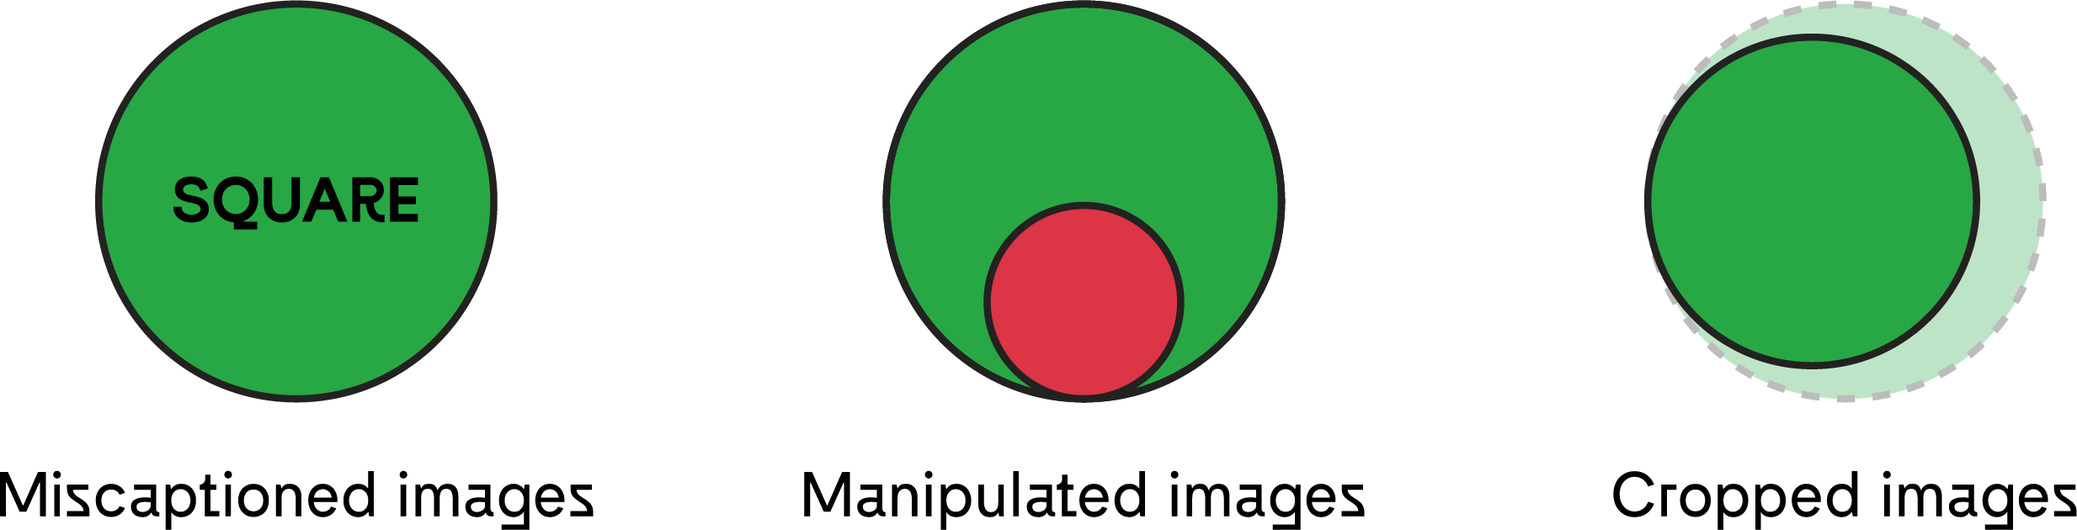
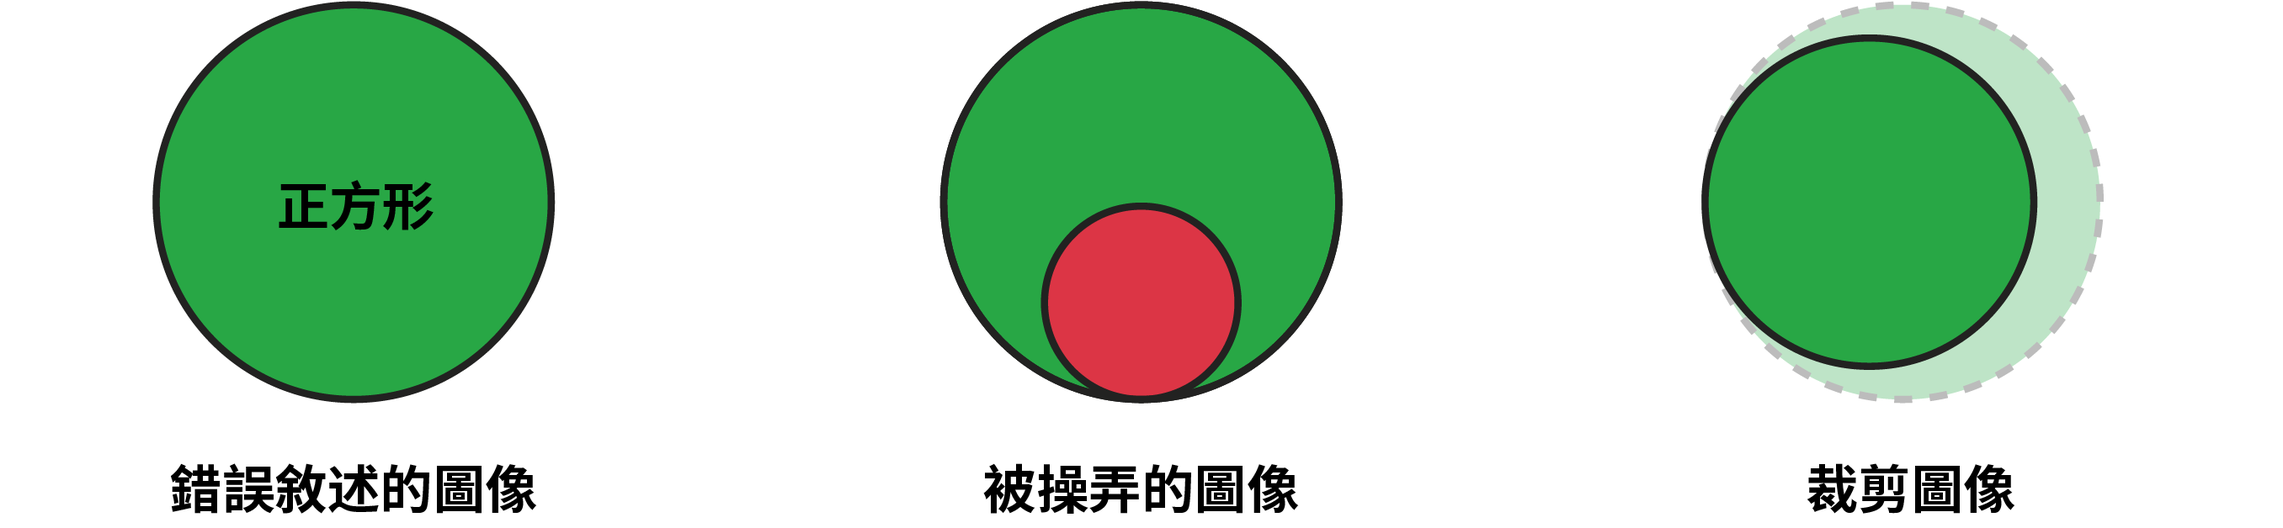
About completo

diff --git a/about.html b/about.html
@@ -2679,140 +2679,93 @@
           <div class="card-header">關於</div>
           <div class="card-body">
             <p class="card-text names"><span style="font-family: var(--font-bold)">計畫團隊</span></br></br>嘉貝麗.戴菈.珮帕 + 安德莉雅.愛蓮娜.費布雷斯 + 凱特麗娜. 吉歐 + 法蘭切絲卡.格蘭佐托 + 寶拉.隆笛 + 愛蓮娜.史黛芬尼 </br>@Density Design, Final Synthesis Design Studio, 2020年1月</p>
-            <h1 id="startingpoint" class="card-title">STARTING POINT</h1>
-            <h2 class="subtitle">How does visual mis- and disinformation propagate?</h2>
+            <h1 id="startingpoint" class="card-title">起點</h1>
+            <h2 class="subtitle">錯誤訊息和假消息是如何傳播的？</h2>
             <p class="card-text">
-              During the 21st century, the number of software for editing images has rapidly increased.
-              Time, cost and skill are not an obstacle anymore: <span style="text-decoration: underline">everyone can easily learn
-                how to fabricate convincing visual digital objects.</span>
-              Moreover, nowadays, the visual aspect is closely linked to information topic: in order to catch readers' attention, any newspaper article
-              or Social Network post is usually accompanied by an image.
-              For these reasons, perhaps even unknowingly, <span style="text-decoration: underline">visual mis- and disinformation propagates across online news sources and Social Networks</span>
-              with growing frequency and sophistication.
-              Thus, it is not unusual to find manipulated visual content online, used to deceive viewers, exploit beliefs or influence
-              individuals’ decisions or actions. One specific example in which a decontextualized image has caused substantial damage on a social level
-              is Trump’s Hurricane Dorian Map Controversy episode:</p></br></br>
-            <p class="cit">After drawing criticism for inaccurately warning over the weekend that Alabama could get hit by Hurricane Dorian — even after government meteorologists disputed that was the case —
-              President Donald Trump on Wednesday held up a map that appeared to have a line drawn on it in black making it seem as if he had been right all along. [...] The map he displayed had one addition
-              not on the one disseminated by the National Hurricane Center: what appeared to be a drawn-on semicircle appended to the "cone of uncertainty" showing the hurricane's potential projected impact —
-              extending the cone into Alabama. [...] It is against federal law to knowingly issue or publish any counterfeit weather forecasts that falsely represent an official forecast issued by government
-              entities like the National Weather Service and National Hurricane Center.</br>
-
-              <img class="img img-fluid dorian" src="./assets/dorian.jpg" /></br>
-              <span class="dida">President Donald Trump, White House in Washington, Sept. 4, 2019.
-                @Jonathan Ernst/Reuters.</span></br></br>
-              <a href="https://abcnews.go.com/Politics/map-flap-trump-displays-altered-weather-map-showing/story?id=65384094">Read the entire article here.</a>
+              D在 21 世紀，有許多圖像編輯軟體。時間、成本和技能不再是障礙：任何人都可以輕鬆學習如何製作具有相當說服力的圖像。
+              </br></br>
+              更重要的是，如今圖像與訊息息息相關。報紙文章和社群媒體都是透過圖像來吸引讀者的注意。
+              </br></br>
+              因此通過網路新聞和社群網絡，錯誤訊息和假消息被更頻繁、更具有說服力地傳播，更常見的是操弄人們的宗教信仰、決議或實際行動，往往嚴重破壞整體社會，其中一個極具爭議的例子是川普的颶風多里安地圖集：
+            </p></br></br>
+            <p class="cit">在週末，因不準確的預測，誤發出阿拉巴馬州可能受到多里安颶風襲擊的錯誤警告而受到批評 - 即使在政府氣象學家對這種情況提出異議之後 - 唐納川普總統週三舉起了一張地圖，上面似乎畫了一條黑色的線。好像他一直都是對的。 [...] 他展示的地圖增加了一個不屬於國家颶風中心發的地圖：似乎是一個繪製的半圓，附加在「不確定性錐體」上，顯示了颶風的潛在預計影響——延長錐體進入阿拉巴馬州。 [...] 刻意發布錯誤的天氣預報，誤導人民以為是國家氣象局和國家颶風中心等政府機構發布的官方預報，這是違反聯邦法律的。</br>
+              <img class="img img-fluid dorian" src="./assets/dorian.jpg"/></br>
+              <span class="dida">唐納川普總統，華盛頓白宮，2019 年 9 月 4 日。</br>@Jonathan Ernst/路透社。</span></br></br>
+              <a href="https://abcnews.go.com/Politics/map-flap-trump-displays-altered-weather-map-showing/story?id=65384094">在此處閱讀整篇文章。</a>
             </p></br>
             <p class="card-text">
-              <span style="text-decoration: underline">Manipulated images can distort and influence users’ opinion and memory</span>. Quite often the distribution of fake
-              images will far surpass the distribution of any correction or attempt to expose the forgery and the general public
-              remains vulnerable to visual deception.
+              被刻意操弄的圖像會扭曲和影響人們的觀點和記憶。即使後續有更正啟事，但大多數情況下，錯誤訊息會傳播的比更正啟事更廣泛，人們往往無法看到實情。
             </p>
 
-            <h2 class="subtitlemiddle">Shades of visual hoaxes</h2>
-            <p class="card-text">Despite the different intention with which manipulated content is produced, <span style="text-decoration: underline">visual hoaxes are all harmful in the same way</span>. Online users are often convinced that the
-              phenomenon only concerns photoshopped images.
-              However, there are much more subtle shades of manipulation.</br>The term <span style="text-decoration: underline">fake</span> does not describe the complexity of the different types of <span
-                style="font-family: var(--font-bold)">misinformation</span>
-              — which is the inadvertent sharing of false information — and <span style="font-family: var(--font-bold)">disinformation</span> —
-              which is the deliberate creation and sharing of information known to be false. To understand the current visual information ecosystem, we need to break down <span style="text-decoration: underline">three types of mis- and
-                disinformation:</span></br></br>
+            <h2 class="subtitlemiddle">惡作劇的陰影</h2>
+            <p class="card-text">因不同意圖所創造的惡作劇，都具有殺傷力。 雖然許多人認為 Photoshop 這個軟體是主要問題，但仍有其他更微妙，更有效的操弄方法。</br></br>
+              在不知不覺中分享未經證實的訊息時，就會發生錯誤訊息。透過刻意製作和分享錯誤訊息來操弄人們。上述兩種複雜的情形下，要了解實際正在發生的事情，我們需要解構三種類型的錯誤訊息和假消息：</br></br>
               <img class="img img-fluid" src="./assets/IconeManipulation.png" />
-              <span style="font-family: var(--font-bold)">
-                Miscaptioned images</span> — Real but misleading images with explanatory texts that falsely describe their context, origin or meaning.</br></br>
-              <span style="font-family: var(--font-bold)">Manipulated images</span> — The primary elements are true, but some details have been added or deleted in order to change the meaning of the image.</br></br>
-              <span style="font-family: var(--font-bold)">Cropped images</span> — Images that have been cropped to change their original meaning and their true context.</p>
+              <span style="font-family: var(--font-bold)">錯誤敘述的圖像</span>——真實但具有誤導性的圖像，包含錯誤的敘述，錯置說明的上下文、來源或含義。</br></br>
+              <span style="font-family: var(--font-bold)">被操弄的圖像</span>——主要元素是真實的，但為了改變圖像的含義而添加或刪除了一些細節。</br></br>
+              <span style="font-family: var(--font-bold)">裁剪圖像</span>——透過裁剪圖像來改變其原始含義和真實上下文。</p>
 
-            <h1 id="maintopics" class="card-title">MAIN TOPICS</h1>
-            <h2 class="subtitle">How do we perceive online visual information?</h2>
+            <h1 id="maintopics" class="card-title">主要議題</h1>
+            <h2 class="subtitle">我們如何察覺網路上的訊息？</h2>
             <p class="card-text"><img class="img img-fluid topicsmall" src="./assets/fonteverificata.gif" /></br>
-              <span style="font-family: var(--font-bold)">Online information credibility</span> is an aspect of information that depends on the user's perception. In order to save time and effort,
-              online we process facts relying on social clues: reputation, endorsements, consistency, expectancy violation, share from like-minded others and number of likes are
-              all features that affect the way we judge information.</br>
+              我們的觀點，直接影響我們對網路訊息的看法。為了節省時間和精力，我們會根據社會線索來評斷事實，例如聲望、期望、誰分享了貼文，擁有多少按讚數等因素都會影響我們判斷訊息的方式。</br>
               <img class="img img-fluid topicbig" src="./assets/intermediares.gif" /></br>
-              <span style="font-family: var(--font-bold)">Source trustworthiness</span> and <span style="font-family: var(--font-bold)">where the information is published</span> are important factors that can influence online information credibility:
-              users tend to transfer the reputation of the source
-              to the content itself and perceive news organizations as having more expertise than singular individuals sharing information on Social Network.
-              In addition, we tend to perceive information as credible if others think so: visual information from more credible <span style="text-decoration: underline">intermediaries</span> will be perceived as
-              more credible than those from less credible intermediaries.</br>
+              誰發佈了信息，在哪裡發佈，都是影響內容可信度的關鍵因素。例如，人們認為新聞機構的可信度遠高於社群媒體上分享內容的個人。另外，我們也會因為其他人相信訊息，而傾向於相信訊息。</br>
               <img class="img img-fluid topicsmall" src="./assets/fomo.gif" /></br>
-              <span style="font-family: var(--font-bold)">Fear of Missing Out</span> and <span style="font-family: var(--font-bold)">Bandwagon effect</span> are led by a compulsive concern about loss of opportunity for social interaction and can
-              trigger the thought:
-              “If other people like this, then I should too”. For these reasons, <span style="text-decoration: underline">time</span> becomes one of the most important factors that influences online information credibility: it pushes the user to
-              judge and share information while not really paying attention to what the content is about. </br>
+              “如果其他人喜歡這個，那我也應該喜歡這個”，這種害怕錯過和“潮流效應”會影響人們的判斷力。這可能導致人們在未仔細讀取訊息內容或確認其可信度時，就輕易分享訊息。</br>
               <img class="img img-fluid topic" src="./assets/labirinto.gif" /></br>
-              <span style="font-family: var(--font-bold)">Digital Media Literacy,</span> described as familiarity and expertise with various online platforms, enables users to correctly identify digital features such as source and intermediary in
-              order to make credibility assessments.
-              In the context of visual information, <span style="text-decoration: underline">experiences and proficiency related to photography or digital imaging</span> are also useful. </br>
+              “數位媒體素養”意味著能夠辨別網路訊息的特徵，例如誰創造了它以及它的共享者是誰，並使用這些知識來決定訊息是否可信。了解如何編輯數位圖像和影片也是數位媒體素養的其中一個面向。</br>
               <img class="img img-fluid topicsmall" src="./assets/bias.gif" /></br>
-              <span style="font-family: var(--font-bold)">Issue attitude</span> and <span style="font-family: var(--font-bold)">confirmation bias</span> have a significant effect: people are more likely to accept a visual content as real if it aligns
-              with their prior beliefs,
-              especially if it is related to politics or current events subjects.
+              我們面對不同問題的態度也很重要，尤其是在政治或時事的背景下，如果訊息證實了他們原本的信念，人們更有可能相信訊息是真實的。
             </p>
 
-            <h1 id="goal" class="card-title">WHAT'S THE GOAL</h1>
-            <h2 class="subtitle">How to mitigate the potential harm of visual hoaxes</h2>
+            <h1 id="goal" class="card-title">目標是什麼</h1>
+            <h2 class="subtitle">如何減少惡作劇的潛在危害</h2>
             <p class="card-text">
-              The main purpose of <span style="font-family: var(--font-var)">doublecheck</span> quiz is to show online users <span style="text-decoration: underline">how difficult</span> it is to recognize whether an image is reliable or not.
-              In addition, this project shows users that every image encountered must be analysed both in its content and in its context. By not paying such attention online, the user could become himself a vehicle for the spread of disinformation
-              and misinformation.
-              <span style="text-decoration: underline">We all play a crucial part in the visual information ecosystem:</span> whenever we passively accept unverified information — for example by sharing a post, image or video without confirming them
-              — we are all potentially adding noise and confusion
-              to this overcrowded and polluted reality. We must <span style="text-decoration: underline">take responsibility for independently checking what we see online.</span>
-              Lastly, <span style="font-family: var(--font-var)">doublecheck</span> suggests that to mitigate the potential harm caused by disinformation online, the best strategy is <span style="text-decoration: underline">investing in educational
-                efforts to increase users’ digital media literacy.</span></br>
-              Gamification — the process of using game-style mechanics to encourage people’s participation and engagement in non-game contexts — is the method used here to convey this message:
-              by taking the quiz, users can both test their skills and actively understand the complexity of visual misinformation topic.
+              <span style="font-family: var(--font-var)">Doublecheck</span><span style="font-family: var(--font-varNorm)"> Project</span>的主要目的是向人們展示識別圖像可信度的難度。此外，還說明了為何需要根據內容和上下文來查看每張圖像。在網路上如果人們不注意，他們可能會在不知不覺中傳播假消息和錯誤訊息。</br></br>
+              我們都在訊息息系統中發揮著至關重要的作用，每當我們被動地接受訊息時——例如通過分享貼文、圖像或影片而不檢查或質疑它——我們正冒著傳遞不真實或誤導性內容的風險。</br></br>
+              我們每個人都有責任檢查在網路上看到的內容。<span style="font-family: var(--font-var)">Doublecheck</span><span style="font-family: var(--font-varNorm)"> Project</span>建議，減少錯誤訊息和消息造成傷害的最佳方式是透過教育來提升數位媒體素養。</br></br>
+              遊戲化——透過遊戲來鼓勵人們參與。通過參加測驗，人們可以測試他們的能力並積極了解主題的複雜性。
             </p>
 
-            <h1 id="starterpack" class="card-title">STARTER PACK</h1>
-            <h2 class="subtitle">Useful tools to deal with visual hoaxes</h2>
-            <h2 class="subtitlemiddle">Data</h2>
+            <h1 id="starterpack" class="card-title">入門錦囊</h1>
+            <h2 class="subtitle">處理惡作劇的工具</h2>
+            <h2 class="subtitlemiddle">數據</h2>
             <p class="card-text">
-              Online visual mis- and disinformation is a phenomenon that has developed in parallel with the birth and diffusion of Social Networks worldwide. Nowadays, both young people and adults often
-              <span style="text-decoration: underline">use these channels as their only source of news</span>.
-              Mainly for this reason, dis- and misinformation spreads readily in this settings.
-              During the first phase of the design process, we explored which platforms are the most used in which region of the World.
-              If you want to learn more about the most influential Social Networks around the World, visit our site:</br></br>
-              <a href="https://densitydesign.github.io/teaching-dd15/course-results/es01/group01/">Social Networks by Cultural Areas</a>
+              如今，網路上的錯誤訊息和假消息隨著社群媒體的發展，許多年輕人和成年人都將社群媒體作為他們唯一的新聞來源，助長假消息和錯誤訊息的傳播。在設計遊戲的第一階段，我們探索了世界各地使用最多的網路社群平台。如果您想了解有關全球最具影響力的網路社群平台，請瀏覽我們的網站：</br></br>
+              <a href="https://densitydesign.github.io/teaching-dd15/course-results/es01/group01/">按文化區域性劃分的社群網絡</a>
               <img class="img img-fluid infografica" src="./assets/Infografica_Spilli.jpg" /></br></br>
-              Confirmation bias is more pronounced for <span style="text-decoration: underline">visual information related to politics and current events</span>.
-              In fact, when it comes to high media resonance events which are supposed to be familiar to the public,
-              visual media disinformation is even more widespread and varied.
-              To get a better understanding of this phenomenon, check out our previews project:</br></br>
-              <a href="https://densitydesign.github.io/teaching-dd15/course-results/es02/group01/">I see it, therefore I believe it</a>
+              關於政治或時事的訊息更有可能引發偏見——因為它支持我們的觀點，使我們更容易相信某件事。當談到許多人都知道的大型全球事件時，假消息變得越來越普遍。更深入了解，請瀏覽我們的預覽訊息：</br></br>
+              <a href="https://densitydesign.github.io/teaching-dd15/course-results/es02/group01/">眼見為憑</a>
               <img class="img img-fluid infografica" src="./assets/Cerchi_Totale.jpg" /></br>
-              <span class="dida">Which and how many times are the fake images related to relevant events of the last 6 years debunked on Google.com?</span></p>
+              <span class="dida">利用google搜尋看看，你是否可以看到過去六年中哪些與事件相關的錯誤圖片被揭穿了，以及被揭穿了多少次。</span></p>
 
-            <h2 class="subtitlemiddle">FAQs and Tips</h2>
+            <h2 class="subtitlemiddle">常見問題和提示</h2>
 
             <p class="card-text">
-              <span style="font-family: var(--font-bold)">— Which is the easiest tool to verify the original source of an image?</span></br>
-              The easiest tool to trace back to the source an image uploaded on the internet is <a href="https://support.google.com/websearch/answer/1325808?co=GENIE.Platform%3DAndroid&hl=en">Reverse Image Search</a>.
-              Thanks to it, you can use a picture to find related or similar images, the websites that contain them and other sizes of the original one.
-              Paying attention to resolution, you can open all the possible links and search for copyright or claimed original source!</br>
+              <span style="font-family: var(--font-bold)">— 驗證圖像原始來源的最簡單工具是什麼？</span></br>
+              The <a href="https://support.google.com/websearch/answer/1325808?co=GENIE.Platform%3DAndroid&hl=en">Reverse Image Search</a> tool可讓您使用圖片來查詢相關或相似的圖像，以及找到它們的網站。您可以打開所有可能的連結並搜尋原始來源。</br>
             </p></br>
 
             <p class="card-text">
-              <span style="font-family: var(--font-bold)">— Is there a site I can check to find other visual mis- and disinformation examples?</span></br>
-              Yes, the site that was used the most for this project is <a href="https://www.snopes.com/">Snopes.com</a>, an independent publication and a fact-checking resource.</br>
+              <span style="font-family: var(--font-bold)">— 有沒有一個網站可以讓我找到其他錯誤訊息和假消息的例子？</span></br>
+              有的，最常使用的網站是 <a href="https://www.snopes.com/">Snopes.com</a>，這是一個獨立的出版物和事實核查資源。</br>
             </p></br>
 
             <p class="card-text">
-              <span style="font-family: var(--font-bold)">— Where can I find out about the different types of visual mis- and disinformation?</span></br>
-              If you want to learn more about this topic you can read <a href="https://firstdraftnews.org/latest/fake-news-complicated/">"Fake news. It’s complicated."</a> by Claire Wardle. This article is a breakdown of the types
-              of fake content, content creators' motivations and how it's being disseminated, in order to understand the misinformation ecosystem.</br>
+              <span style="font-family: var(--font-bold)">— 我在哪裡可以找到不同類型的錯誤訊息和假消息？</span></br>
+              如果您想了解更多訊息，可以閱讀克萊爾沃德爾的<a href="https://firstdraftnews.org/latest/fake-news-complicated/">“假新聞。這很複雜。”</a>本文詳細介紹了錯誤訊息的類型、創建原因以及傳播方式。</br>
             </p></br>
 
             <p class="card-text">
-              <span style="font-family: var(--font-bold)">— Have there been studies about perception and ability to recognize visual mis- and disinformation?</span></br>
-              Yes, in particular the paper written by Cuihua Shen, Mona Kasra, Wenjing Pan Grace A. Bassett, Yining Malloch, James F O’Brien:</br><a href="https://journals.sagepub.com/doi/10.1177/1461444818799526 ">"Fake images:
-                The effects of source, intermediary, and digital media literacy on contextual assessment of image credibility online"</a>.</br>
+              <span style="font-family: var(--font-bold)">— 是否有關於人們辨別錯誤訊息和假消息能力的研究？</span></br>
+              是的，特別是 Cuihua Shen、Mona Kasra、Wenjing Pan Grace A. Bassett、Yining Malloch 和 James F O’Brien 撰寫的論文：</br>
+              <a href="https://journals.sagepub.com/doi/10.1177/1461444818799526 ">“假圖像：來源、中介和數位媒體素養對網路圖像可信度及上下文評估的影響”</a>。</br>
             </p></br>
 
             <p class="card-text">
-              <span style="font-family: var(--font-bold)">— Where can I find the sources of all the images used in this project?</span></br>
-              This is the <a href="./assets/Doublecheck_ImageSources.xlsx" download>dataset</a> you can download to get all the links of the articles from which we extracted the images.</br>
+              <span style="font-family: var(--font-bold)">— 我在哪裡可以找到這個項目中使用的圖像來源？</span></br>
+              <a href="./assets/Doublecheck_ImageSources.xlsx" download>下載此數據集以讀取我們擷取圖像的文章列表。</a></br>
             </p></br>
 
             <!-- Footer   -->
@@ -2826,7 +2779,7 @@
               </div>
               <div class="col-lg-2">
                 <p class="foot">
-                  <span style="font-family: var(--font-bold)">Project by</span></br></br>
+                  <span style="font-family: var(--font-bold)">計畫團隊</span></br></br>
                   <span style="font-family: var(--font-regular)">
                     Della Pepa Gabriele </br>
                     Febres Medina Andrea</br>
@@ -2839,7 +2792,7 @@
               </div>
               <div class="col-lg-2">
                 <p class="foot">
-                  <span style="font-family: var(--font-bold)">Faculty</span></br></br>
+                  <span style="font-family: var(--font-bold)">學院</span></br></br>
                   <span style="font-family: var(--font-regular)">
                     Michele Mauri </br>
                     Ángeles Briones</br>
@@ -2851,7 +2804,7 @@
               </div>
               <div class="col-lg-2">
                 <p class="foot">
-                  <span style="font-family: var(--font-bold)">Teaching Assistants</span></br></br>
+                  <span style="font-family: var(--font-bold)">助教</span></br></br>
                   <span style="font-family: var(--font-regular)">
                     Andrea Benedetti </br>
                     Lea Mara Fabiano</br>

diff --git a/css/about.css b/css/about.css
@@ -16,6 +16,7 @@
   --font-medium: NotoSansSC-Medium;
   --font-semibold: NotoSansSC-Bold;
   --font-var: bandeins_strangeSBdExfull;
+  --font-varNorm: bandeins_strangesemi_bold;
   --font-varbold: bandeins_strangeBdExfull;
 }
 
